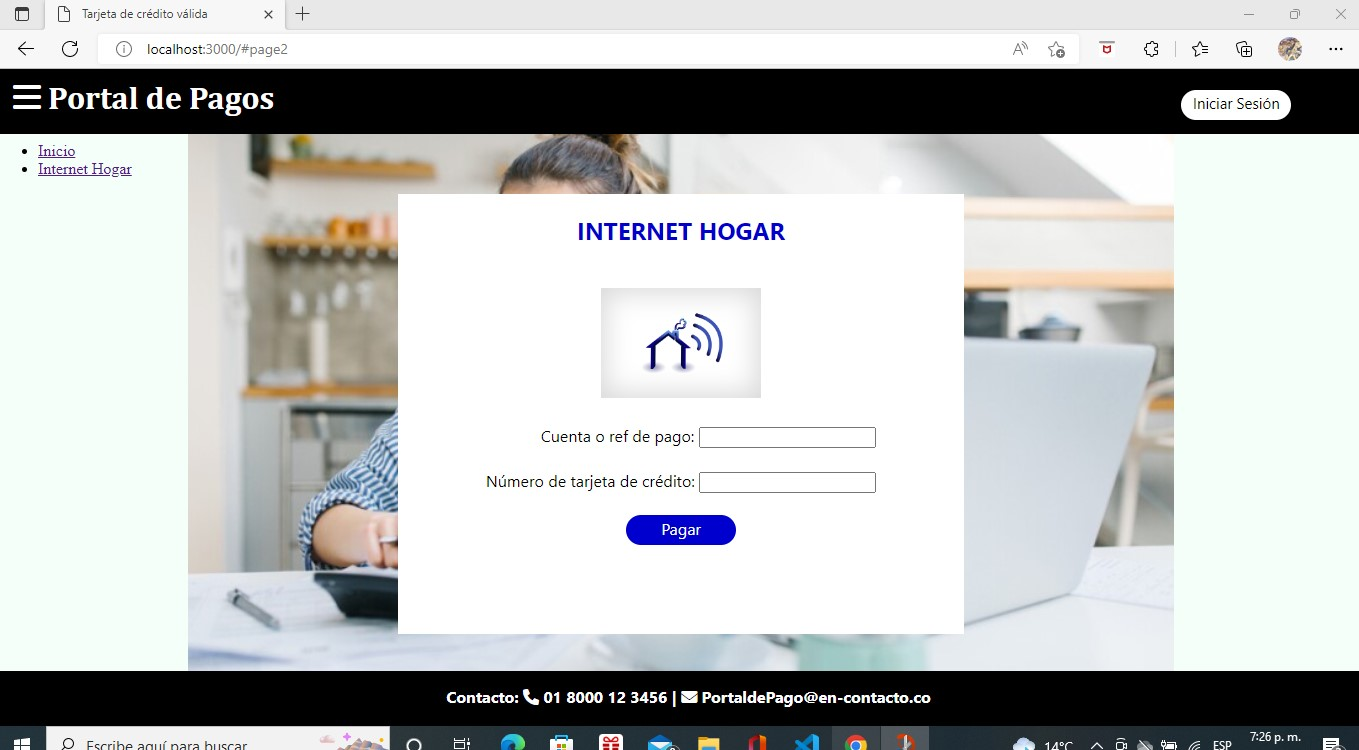
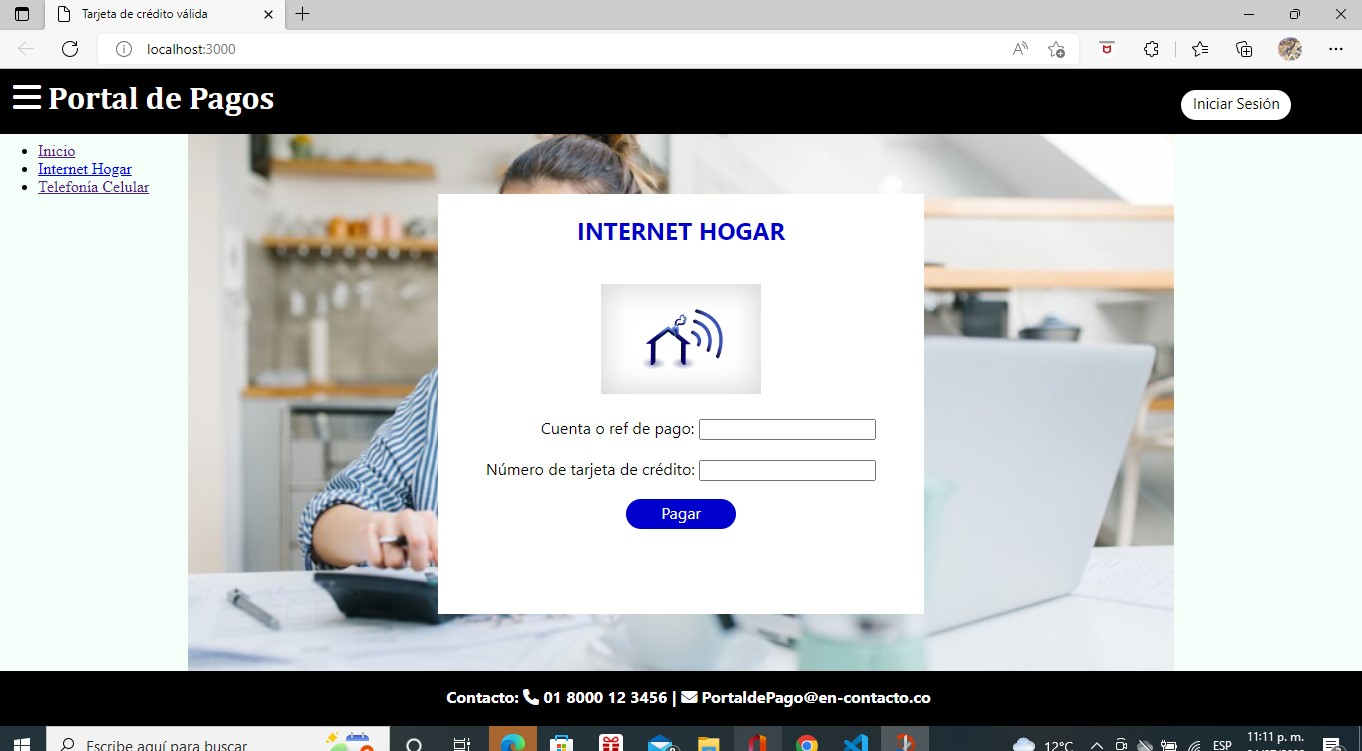
Modificación archivo css

diff --git a/src/index.html b/src/index.html
@@ -11,55 +11,44 @@
       <h1><i class="fa-solid fa-bars"></i> Portal de Pagos <input type="button" value="Iniciar Sesión" class="button1"></h1>
       <nav>
         <ul>
-          <li><a href="#page1">Inicio</a></li>
-          <li><a href="#page2">Internet Hogar</a></li>
+          <li><a href="#">Inicio</a></li>
+          <li><a href="#internet">Internet Hogar</a></li>
+          <li><a href="#">Telefonía Celular</a></li>
         </ul>
       </nav>
     </header>
     
-    <div id="page1" class="pages">
-      <main>
-        <p id="message1">Por favor selecciona el servicio que deseas pagar</p>
-      </main>
-      <div class="footer1">
-        <footer>
-          <p>Contacto: <i class="fa-solid fa-phone"></i> 01 8000 12 3456 | <i class="fa-solid fa-envelope"></i> PortaldePago@en-contacto.co</p>
-        </footer>
-      </div>
-    </div>
-    
-    <div id="page2" class="pages">
-      <main>
-        <div class="box">
-          <div>
-            <h2>INTERNET HOGAR</h2>
-          </div>
-          <div >
-            <img src="https://www.altonivel.com.mx/assets/images/Estructura_V3/Tecnologia/Soluciones/wifi-hogar.jpg" class="pic">
-          </div>
-          <div class="push">
-            <label>Cuenta o ref de pago: </label>
-            <input type="text" id="account">
-          </div>
-          <div>
-            <label>Número de tarjeta de crédito: </label>
-            <input type="text" id="cardNumber">
-          </div>
-          <div>
-            <input type="button" id="payButton" value="Pagar" class="button2">
-          </div>
-          <div id="showIsValid" class="message2">
-            <p ></p>
-          </div>
-        </div>
-      </main>
-      <div class="footer2">
-        <footer>
-          <p>Contacto: <i class="fa-solid fa-phone"></i> 01 8000 12 3456 | <i class="fa-solid fa-envelope"></i> PortaldePago@en-contacto.co</p>
-        </footer>
-      </div>
-    </div>
+    <main>
 
+      <div id="internet" class="box">
+        <div>
+          <h2>INTERNET HOGAR</h2>
+        </div>
+        <div >
+          <img src="https://www.altonivel.com.mx/assets/images/Estructura_V3/Tecnologia/Soluciones/wifi-hogar.jpg" class="pic">
+        </div>
+        <div class="push">
+          <label>Cuenta o ref de pago: </label>
+          <input type="text" id="account">
+        </div>
+        <div>
+          <label>Número de tarjeta de crédito: </label>
+          <input type="text" id="cardNumber">
+        </div>
+        <div>
+          <input type="button" id="payButton" value="Pagar" class="button2">
+        </div>
+        <div id="showIsValid" class="message">
+          <p ></p>
+        </div>
+      </div>
+
+    </main>
+    
+    <footer>
+      <p>Contacto: <i class="fa-solid fa-phone"></i> 01 8000 12 3456 | <i class="fa-solid fa-envelope"></i> PortaldePago@en-contacto.co</p>
+    </footer>
+      
     <script src="index.js" type="module"></script>
   </body>
 </html>

diff --git a/src/style.css b/src/style.css
@@ -33,46 +33,18 @@ h1 {
     margin-left: 900px;
 }
 
-.pages:not(:target) {
-    display: none;
-}
-
-#message1 {
-    color: black;
-    font-size: 25px;
-    margin-top: 150px;
-    font-family: 'Segoe UI', Tahoma, Geneva, Verdana, sans-serif;
-}
-
-.footer1 {
-    background-color: black;
-    margin-top: 339px;
-    height: 55px;  
-    width: 100%;   
-}
-
-p {
-    color: white;
-    font-family: 'Segoe UI', Tahoma, Geneva, Verdana, sans-serif;
-    font-size: 16px;
-    padding-top: 15px;
-    padding-left: 15px;
-    text-align: center;
-    font-weight: bold;
-}
-
 .box {
     display: flex;
     flex-direction: column;
     align-items: center;
     justify-content: space-between;
-    height: 440px;
+    height: 420px;
     font-family: 'Segoe UI', Tahoma, Geneva, Verdana, sans-serif;
     font-size: 16px;   
     background-color: white;
     margin-top: 60px;
-    margin-left: 400px;
-    margin-right: 400px;  
+    margin-left: 440px;
+    margin-right: 440px;  
 }
 
 h2 {
@@ -100,19 +72,28 @@ h2 {
     padding: 0 0 4px 0;
 }
 
-.message2 {
+.message {
     font-weight: bold;
     padding: 0.5em;
     font-size: 20px;
 }
 
-.footer2 {
+footer {
     background-color: black;
-    margin-top: 37px;
+    margin-top: 57px;
     height: 55px;  
     width: 100%;
 }
 
+p {
+    color: white;
+    font-family: 'Segoe UI', Tahoma, Geneva, Verdana, sans-serif;
+    font-size: 16px;
+    padding-top: 15px;
+    padding-left: 15px;
+    text-align: center;
+    font-weight: bold;
+}
 
 
 
